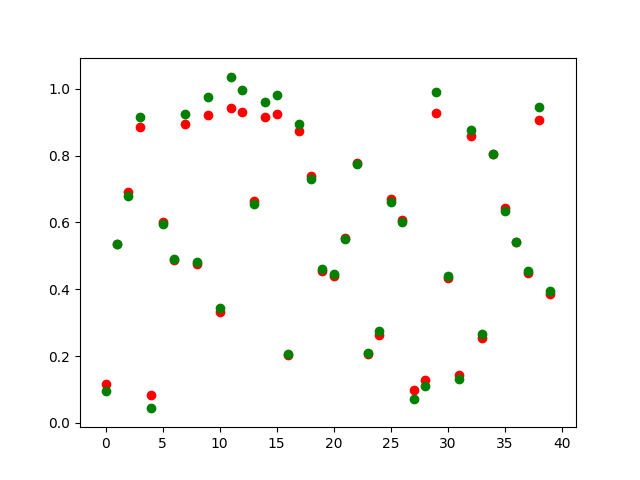
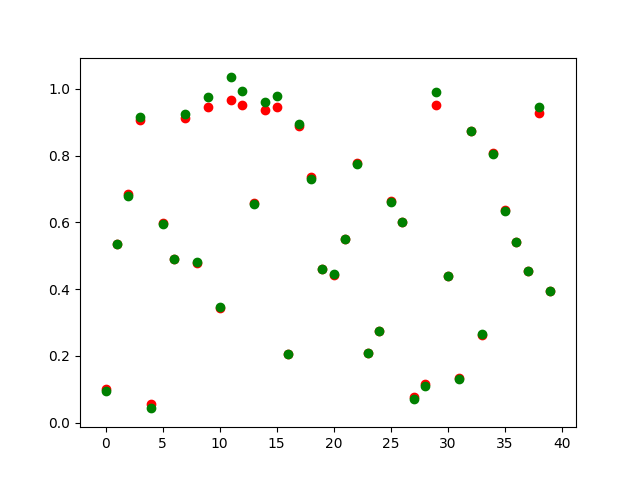
1000

diff --git a/lesson8/lesson8.1.py b/lesson8/lesson8.1.py
@@ -10,9 +10,9 @@ import sys
 from keras.models import Sequential
 from keras.layers import LSTM
 
-scale = 100
-seq_size = 6
-epochs = 500
+scale = 200
+seq_size = 8
+epochs = 1000
 #################################################
 # Create dataset for RNN
 #
@@ -61,10 +61,11 @@ history = model.fit(x_train, y_train, epochs=epochs, validation_data=(x_test,y_t
 results = model.predict(x_test)
 plt.scatter(range(len(x_test)), results,c='r')
 plt.scatter(range(len(x_test)), y_test, c='g')
+plt.savefig("lesson8.1.scatter.png")
 
 ####################################################
 # Plot the loss Function
 #
 plt.plot(history.history['loss'])
-plt.savefig("lesson8.png")
+plt.savefig("lesson8.1.loss.png")
 
